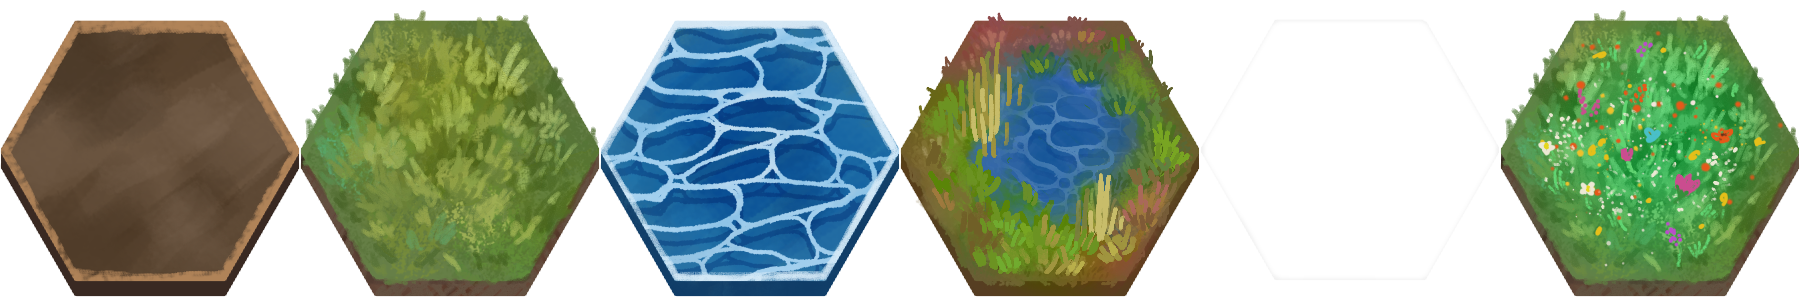
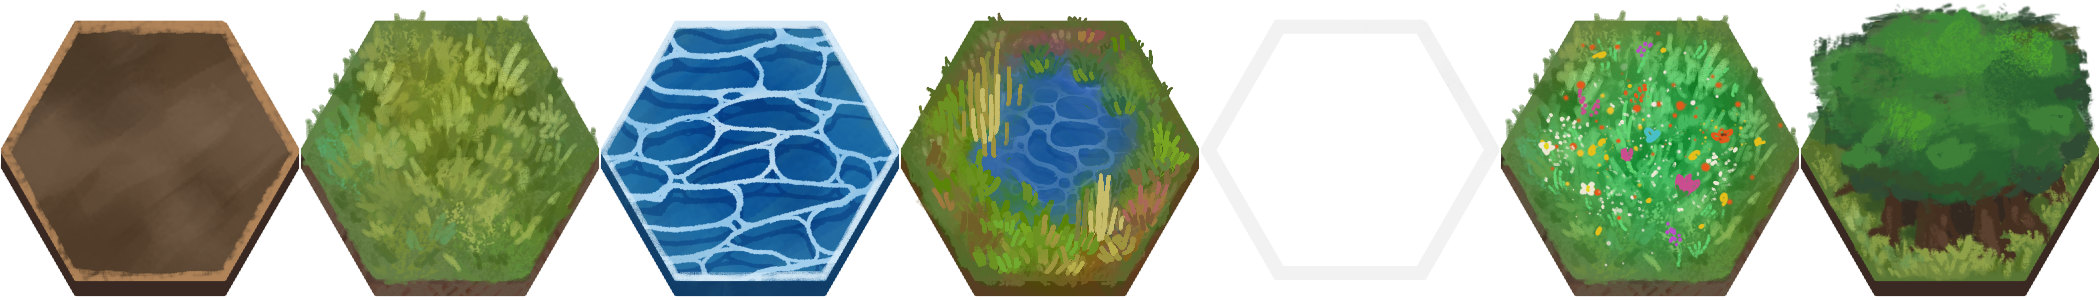
Wods

diff --git a/scripts/handlers/TileHandler.cs b/scripts/handlers/TileHandler.cs
@@ -10,6 +10,7 @@ public class TileHandler
 	public static PackedScene waterScene = GD.Load<PackedScene>("res://scenes/tiles/Water.tscn");
 	public static PackedScene marshScene = GD.Load<PackedScene>("res://scenes/tiles/Marsh.tscn");
 	public static PackedScene wildflowerScene = GD.Load<PackedScene>("res://scenes/tiles/Wildflower.tscn");
+	public static PackedScene woodsScene = GD.Load<PackedScene>("res://scenes/tiles/Woods.tscn");
 	public static PackedScene habitatScene = GD.Load<PackedScene>("res://scenes/habitats/Habitat.tscn");
 
 	// Tile being placed, Output tile, Land requirements, icon requirements
@@ -21,6 +22,9 @@ public class TileHandler
 				new IconRequirement[]{}),
 				((Tile)marshScene.Instance(),
 				new LandRequirement[]{ new LandRequirement(waterScene, 3)},
+				new IconRequirement[]{}),
+				((Tile)woodsScene.Instance(),
+				new LandRequirement[] {new LandRequirement(waterScene, 1), new LandRequirement(grassScene,2)},
 				new IconRequirement[]{})
 			}
 		},
@@ -28,7 +32,10 @@ public class TileHandler
 			{
 				((Tile)marshScene.Instance(),
 				new LandRequirement[]{ new LandRequirement(waterScene, 3)},
-				new IconRequirement[]{})
+				new IconRequirement[]{}),
+				((Tile)woodsScene.Instance(),
+				new LandRequirement[] {new LandRequirement(grassScene, 3)},
+				new IconRequirement[]{}),
 			}
 		},
 	};
@@ -40,7 +47,8 @@ public class TileHandler
 		{ new Vector2(2,0), waterScene },
 		{ new Vector2(-1,-1), habitatScene},
 		{ new Vector2(3,0), marshScene},
-		{ new Vector2(5,0), wildflowerScene}
+		{ new Vector2(5,0), wildflowerScene},
+		{ new Vector2(6,0), woodsScene}
 	};
 
 	public static PackedScene GetTileScene(Vector2 atlasCoord) {

diff --git a/scripts/tiles/Woods.cs b/scripts/tiles/Woods.cs
@@ -1,0 +1,14 @@
+using Godot;
+using System;
+
+public class Woods : Tile
+{
+	public Woods() {
+		name = "Woods";
+		score = 3;
+		atlasCoord = new Vector2 (6,0);
+		discoveryTitle = "You discovered woods! +3 points";
+		discoveryAddition = 0;
+		discoveryDescription = "By placing grass next to 3 grass.";
+	}
+}

diff --git a/scripts/tiles/Marsh.cs b/scripts/tiles/Marsh.cs
@@ -9,6 +9,6 @@ public class Marsh : Tile
 		atlasCoord = new Vector2 (3,0);
 		discoveryAddition = 0;
 		discoveryTitle = "You discovered marsh! +3 points.";
-		discoveryDescription = "By placing grass near 2 water.";
+		discoveryDescription = "By placing grass or dirt near 3 water.";
 	}
 }

diff --git a/scripts/habitats/Fox.cs b/scripts/habitats/Fox.cs
@@ -5,9 +5,6 @@ public class Fox : Habitat
 {
 	public Fox() {
 		atlasCoord = Vector2.Zero;
-		name = "Fox";
-		score = 0;
-		discoveryTitle = "A fox has moved in!";
 	}
 
 	public override Vector2 GetUpdatedTile(Vector2 atlasCoord) {

diff --git a/scripts/Sprite.cs b/scripts/Sprite.cs
@@ -23,7 +23,8 @@ public class Sprite : Godot.Sprite
 		new Vector2(2,0),
 		new Vector2(-1,-1),
 		new Vector2(3,0),
-		new Vector2(5,0)
+		new Vector2(5,0),
+		new Vector2(6,0)
 	};
 	
 	// Bag of tiles
